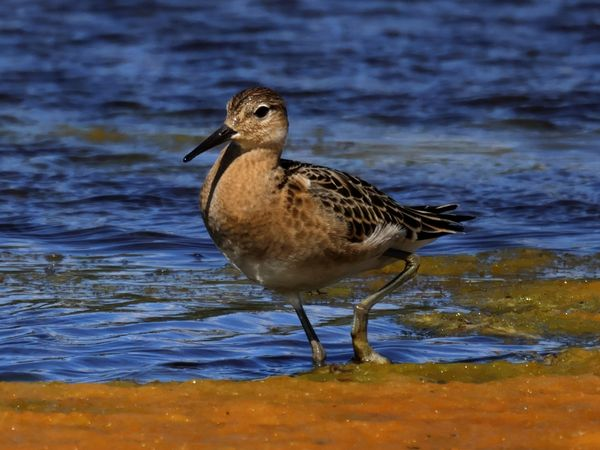
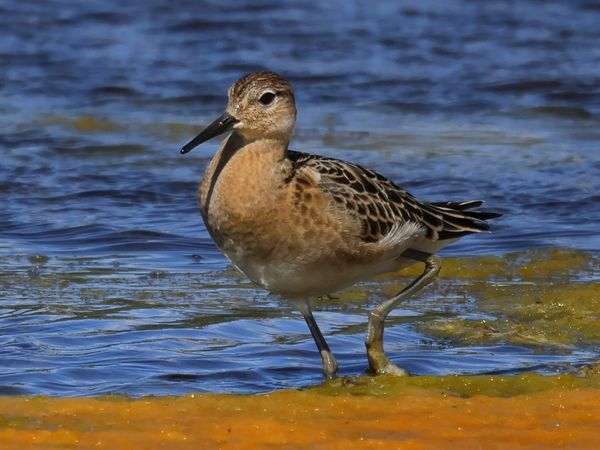
feat(scripts): add --input/--output args to generate_thumbnails
Replace hardcoded source and destination dirs with CLI args; --output defaults to assets/images_thumbnails. Make --output optional in generate_index.py with default assets/index_birds.json. Refresh thumbnails 2390, 440, 5050 and add 3410.

diff --git a/scripts/generate_thumbnails.py b/scripts/generate_thumbnails.py
@@ -1,11 +1,10 @@
 """Resize every image in assets/images into fixed-size thumbnails."""
 
+import argparse
 from pathlib import Path
 
 from PIL import Image, ImageOps
 
-SRC_DIR = Path(__file__).parent.parent / "assets" / "images"
-DST_DIR = Path(__file__).parent.parent / "assets" / "images_thumbnails"
 THUMB_SIZE = (600, 450)  # width, height (4:3)
 IMAGE_EXTS = {".jpg", ".jpeg", ".png"}
 
@@ -22,16 +21,31 @@ def make_thumbnail(img: Image.Image) -> Image.Image:
     return ImageOps.fit(img.convert("RGB"), THUMB_SIZE, Image.LANCZOS)
 
 
-def generate_thumbnails() -> None:
+def generate_thumbnails(src_dir: Path, dst_dir: Path) -> None:
     """Generate a same-size thumbnail in DST_DIR for every image in SRC_DIR."""
-    DST_DIR.mkdir(parents=True, exist_ok=True)
-    for src in sorted(SRC_DIR.iterdir()):
+    dst_dir.mkdir(parents=True, exist_ok=True)
+    for src in sorted(src_dir.iterdir()):
         if src.suffix.lower() not in IMAGE_EXTS:
             continue
         with Image.open(src) as img:
-            make_thumbnail(img).save(DST_DIR / f"{src.stem}.jpg", "JPEG", quality=80)
-    print(f"Wrote thumbnails to {DST_DIR}")
+            make_thumbnail(img).save(dst_dir / f"{src.stem}.jpg", "JPEG", quality=80)
+    print(f"Wrote thumbnails to {dst_dir}")
 
 
 if __name__ == "__main__":
-    generate_thumbnails()
+    parser = argparse.ArgumentParser()
+    parser.add_argument(
+        "--input",
+        type=Path,
+        required=True,
+        help="Path to card reference input (Wingspan Swiss Expansion)",
+    )
+    parser.add_argument(
+        "--output",
+        type=Path,
+        default="assets/images_thumbnails",
+        help="Path to bird index json output for website backbone",
+    )
+    args = parser.parse_args()
+
+    generate_thumbnails(src_dir=args.input, dst_dir=args.output)

diff --git a/scripts/generate_index.py b/scripts/generate_index.py
@@ -37,7 +37,7 @@ if __name__ == "__main__":
     parser.add_argument(
         "--output",
         type=Path,
-        required=True,
+        default="assets/index_birds.json",
         help="Path to bird index json output for website backbone",
     )
     args = parser.parse_args()
